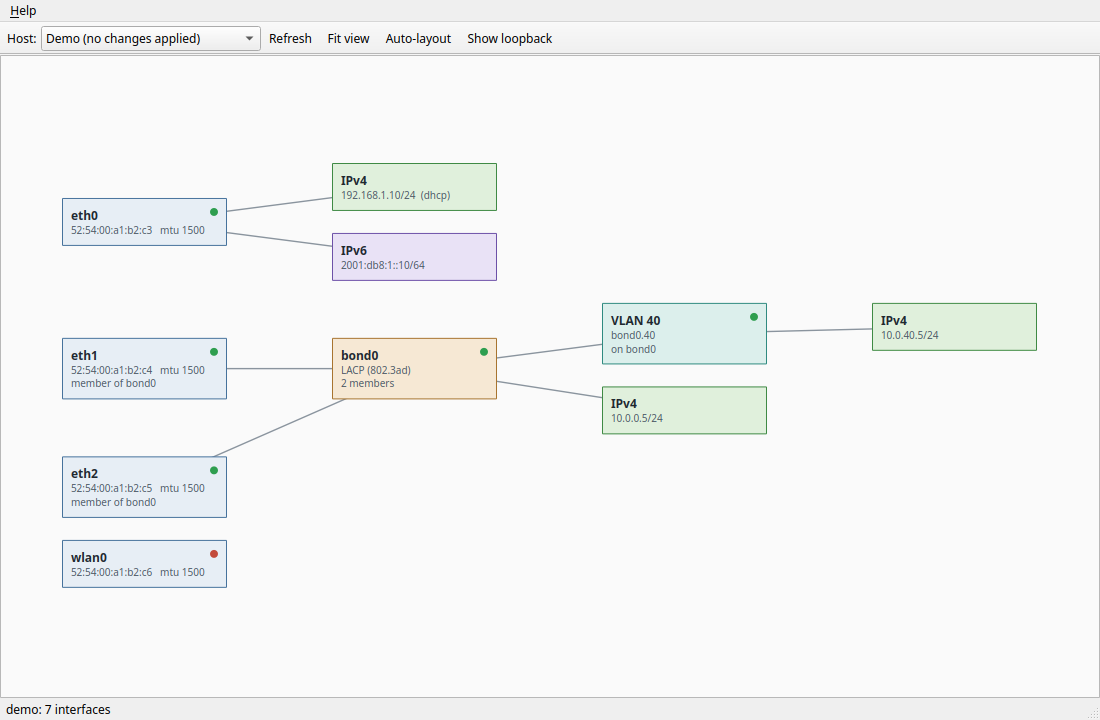
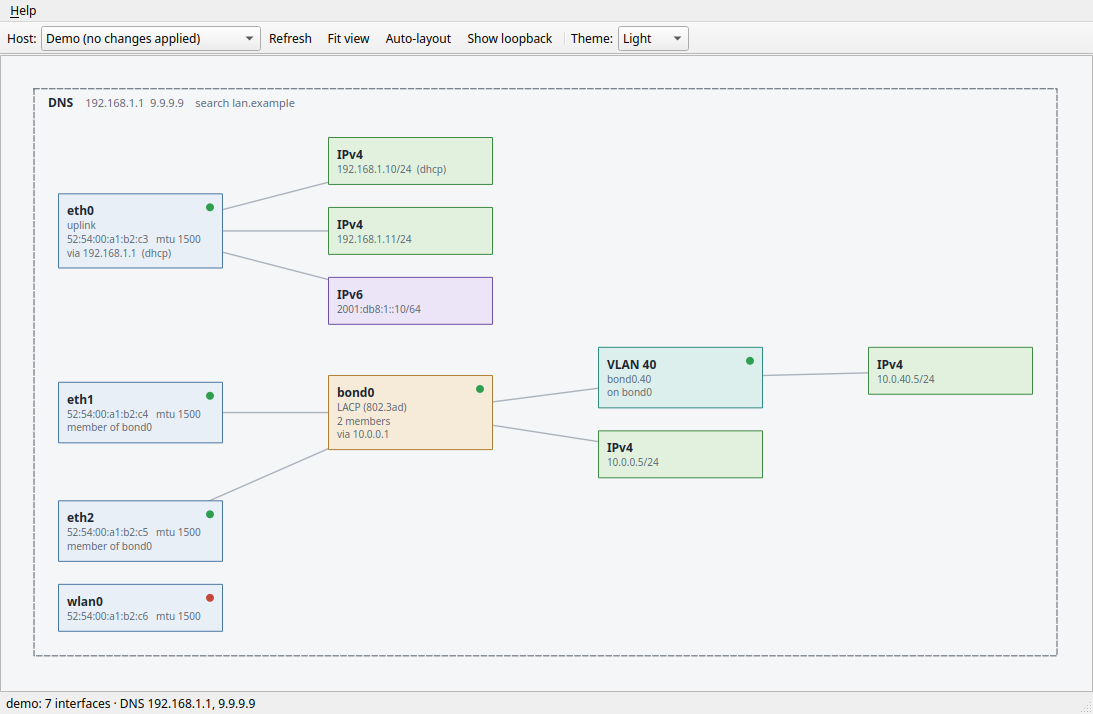
UPdate Readme.md with new features.

diff --git a/README.md b/README.md
@@ -3,12 +3,12 @@
 **Visual, drag-and-drop network interface management for Linux.**
 
 NetGrip shows your machine's network as it actually is: NICs are boxes, and
-every piece of configuration — an IPv4 setup, an IPv6 setup, a VLAN, a bond —
-is its own box, joined to its interface by a line. Reconfiguring the network
-is direct manipulation:
+every piece of configuration — an IP address, a VLAN, a bond — is its own box,
+joined to its interface by a line. Reconfiguring the network is direct
+manipulation:
 
-- **Drag an IP box** from one NIC to another and the addresses move with it.
-- **Ctrl-drag** to clone a configuration instead of moving it.
+- **Drag an IP box** from one NIC to another and that address moves with it.
+- **Ctrl-drag** to clone an address instead of moving it.
 - **Drag one NIC onto another** to create a bond (failover, LACP, and the
   other kernel bonding modes).
 - **Right-click** a NIC to add a VLAN or an IP config; right-click a bond to
@@ -17,10 +17,15 @@ is direct manipulation:
   the canvas and attach somewhere else later.
 - Stack them: an IP config attached to a VLAN attached to a bond of two NICs.
 
+There's one box per IPv4/IPv6 address, and every interface shows its MAC, MTU,
+alias and default gateway. **Right-click → Properties** to edit a NIC/bond/VLAN's
+MAC, MTU, alias or name, or to set its gateway and DNS. System-wide DNS is drawn
+as a dashed frame around the whole diagram.
+
 It manages the local machine, or — using your existing SSH config, keys and
 agent — any remote Linux machine you can reach with `ssh`.
 
-![NetGrip showing two NICs bonded with LACP, a VLAN on the bond, and IP config boxes](docs/img/screenshot-demo.png)
+![NetGrip's demo host: two NICs bonded with LACP, a VLAN on the bond, per-address IPv4/IPv6 boxes with their gateways, and a system-wide DNS frame around everything](docs/img/screenshot-demo.png)
 
 ## How it works
 
@@ -33,6 +38,15 @@ what executes, locally via `sudo`/`pkexec` or remotely via `ssh`.
 > Changes are real and immediate, but they are **not persisted across
 > reboots** yet. Persistence backends (NetworkManager, systemd-networkd,
 > netplan) are on the [roadmap](ROADMAP.md).
+
+The canvas stays *flat* — boxes joined by straight lines — but follows your
+desktop's light or dark theme, with a toolbar **Theme** selector (System /
+Light / Dark) that's remembered between runs. The same demo host in dark mode:
+
+![NetGrip's demo host rendered in the dark theme](docs/img/screenshot-demo-dark.png)
+
+NetGrip also remembers, per host, where you place the boxes, the names you give
+IP-config boxes, and any draft configs — restored the next time you open it.
 
 ## Installing
 
@@ -89,13 +103,19 @@ single confirmed batch.
 
 ## Status
 
-Working today: viewing interfaces/addresses/VLANs/bonds/bridges, moving and
-cloning IP configs, creating and deleting VLANs, creating bonds by drag or
-dialog, bond mode and membership changes, link up/down, draft IP configs,
-remote hosts over SSH, demo mode.
+Working today: viewing interfaces/addresses/VLANs/bonds/bridges with their
+MAC, MTU, alias and gateway; one box per IPv4/IPv6 address; moving and cloning
+IP configs; creating and deleting VLANs; creating bonds by drag or dialog; bond
+mode and membership changes; link up/down; editing MAC/MTU/alias and renaming
+interfaces; setting the default gateway (with a Dynamic/Static toggle) and
+per-link DNS (via systemd-resolved); system-wide DNS read from
+`/etc/resolv.conf`; draft IP configs; light/dark theming; remembered box
+positions, names and drafts per host; remote hosts over SSH; demo mode. As
+noted above, all of this applies to the *running* stack only — reboot
+persistence is the headline of 0.2.
 
-See [ROADMAP.md](ROADMAP.md) for where this is going (persistence, routes
-and gateways, bridges/teams, Windows hosts) and
+See [ROADMAP.md](ROADMAP.md) for where this is going (persistence, more route
+control, bridges/teams, Windows hosts) and
 [CHANGELOG.md](CHANGELOG.md) for history.
 
 ## Contributing